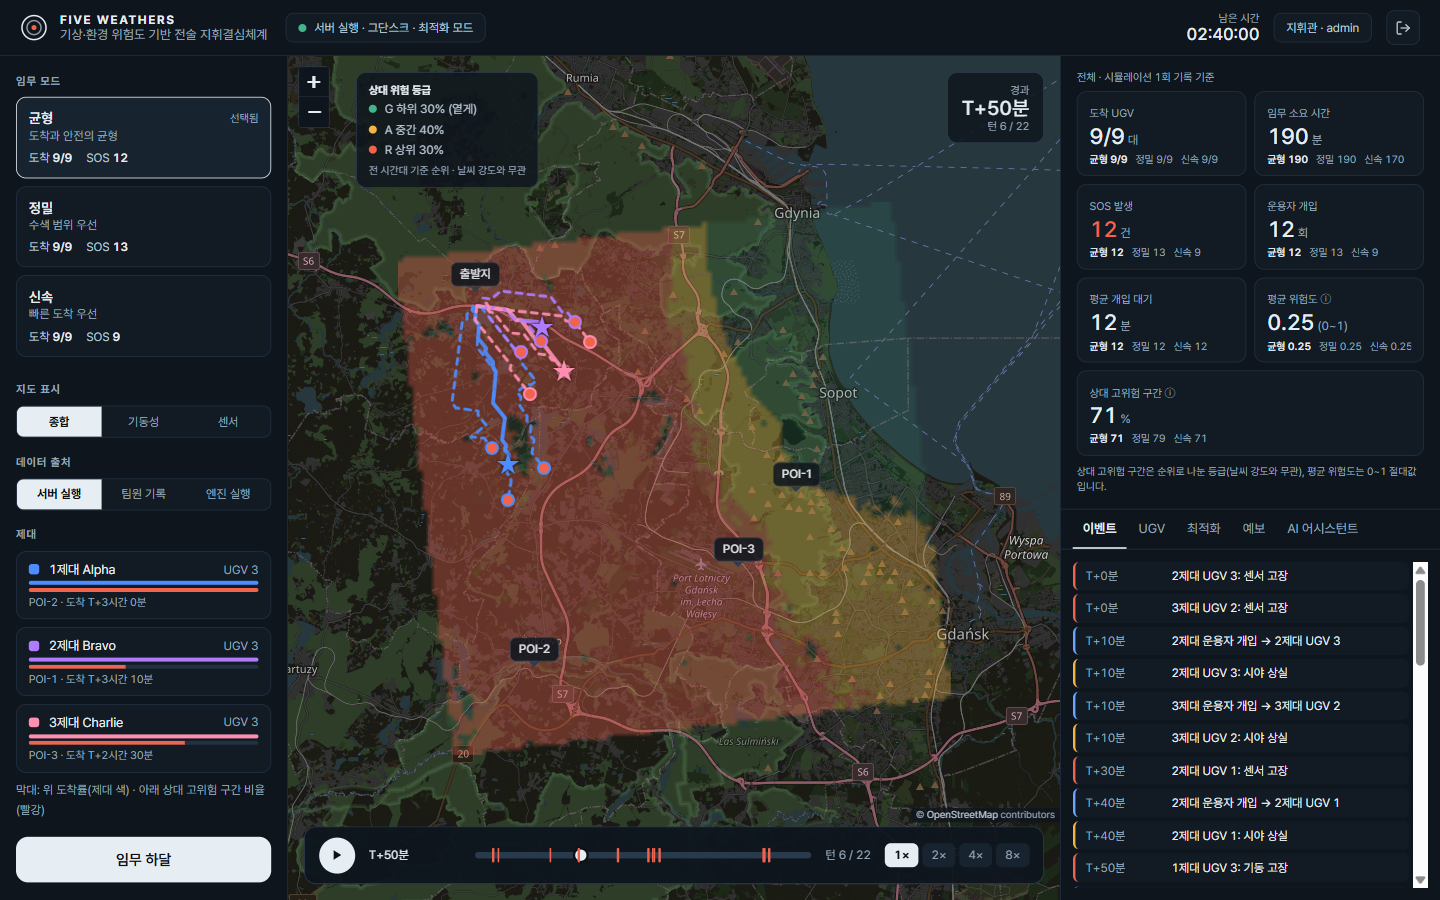
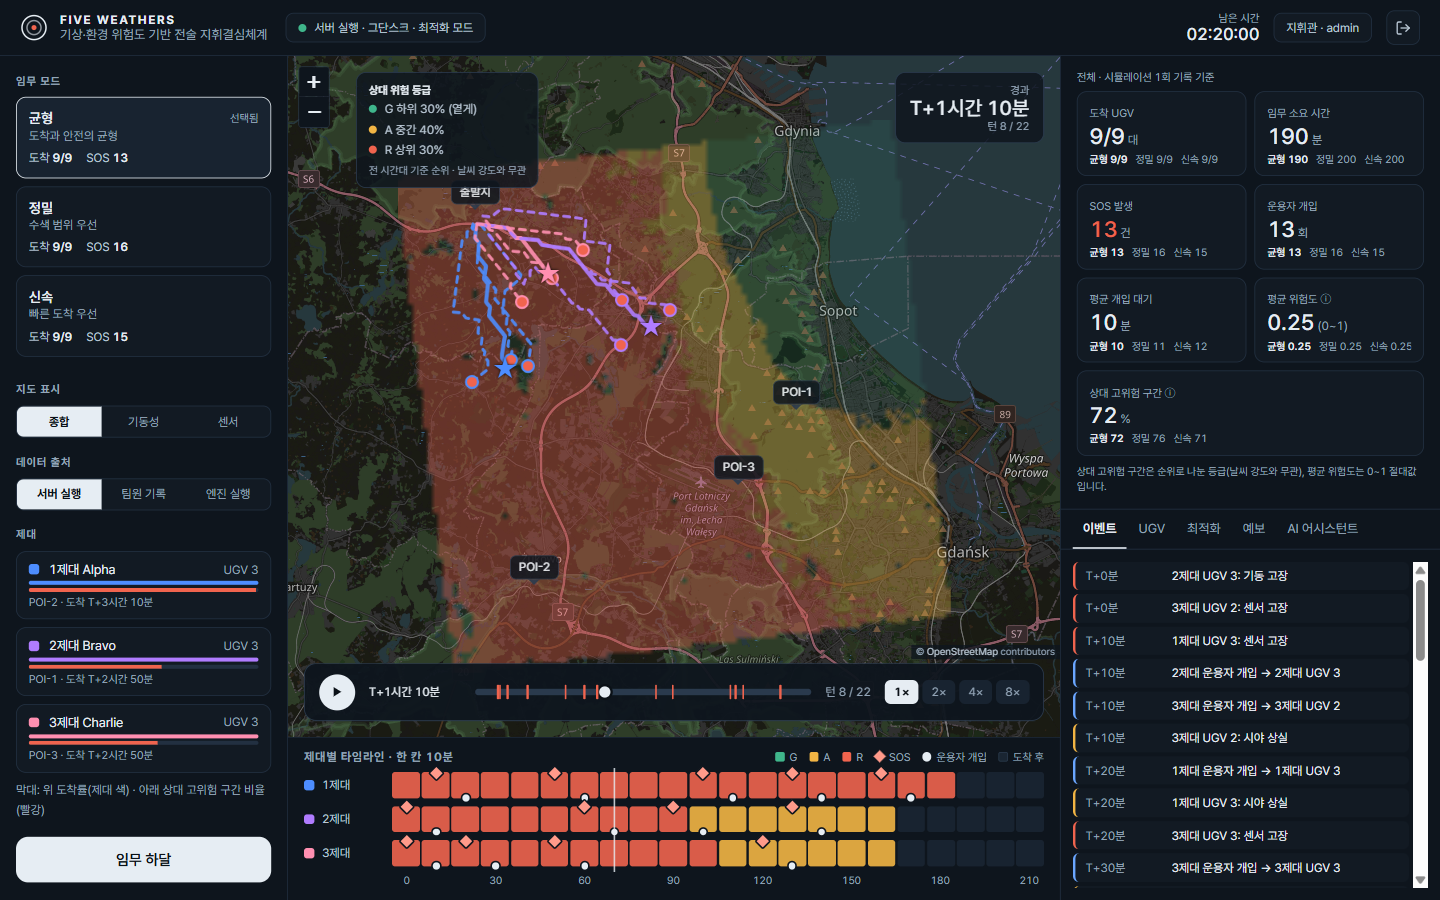
feat: 제대별 타임라인 (위험 등급 칸, SOS·운용자 개입 표시, 클릭으로 시점 이동)

diff --git a/frontend_js/src/replay/TeamTimeline.jsx b/frontend_js/src/replay/TeamTimeline.jsx
@@ -1,0 +1,73 @@
+import { useMemo } from "react";
+import { GRADE_COLOR, TEAM_COLOR, TEAM_UNIT, elapsedLabel, teamTimeline } from "./replayModel";
+
+const TEAM_ORDER = ["Alpha", "Bravo", "Charlie"];
+
+// 제대별 타임라인: 한 칸 = 10분(한 턴). 칸 색 = 그 턴에 UGV 가 있던 곳의 가장 나쁜 위험 등급.
+// 칸을 누르면 그 시점으로 이동한다. SOS(빨간 마름모)·운용자 개입(흰 점)이 시간순으로 보인다.
+export default function TeamTimeline({ replay, allowedTeams }) {
+  const { model, frame, seek, teams, setSelected } = replay;
+  const lanes = useMemo(
+    () => TEAM_ORDER.filter((t) => model.kpi.per_team[t] && (!allowedTeams || allowedTeams.includes(t)) && teams[t])
+      .map((t) => ({ team: t, ...teamTimeline(model, t) })),
+    [model, allowedTeams, teams],
+  );
+  const firstFrame = useMemo(() => {
+    const map = new Map();
+    model.frames.forEach((f, i) => { if (!map.has(f.turn)) map.set(f.turn, i); });
+    return map;
+  }, [model]);
+  const turns = model.kpi.turns;
+  const cur = model.frames[frame].turn;
+  const pct = (turn) => `${((turn + 0.5) / turns) * 100}%`;
+  const ticks = Array.from({ length: Math.ceil(turns / 3) }, (_, i) => i * 3).filter((t) => t < turns);
+
+  return (
+    <section className="timeline" aria-label="제대별 타임라인">
+      <div className="tl-head">
+        <b>제대별 타임라인 · 한 칸 10분</b>
+        <span className="tl-legend">
+          {Object.entries(GRADE_COLOR).map(([g, c]) => <span key={g}><i style={{ background: c }} />{g}</span>)}
+          <span><i className="diamond" />SOS</span>
+          <span><i className="dotw" />운용자 개입</span>
+          <span><i className="done" />도착 후</span>
+        </span>
+      </div>
+      {lanes.length === 0 && <p className="empty">표시할 제대가 없습니다.</p>}
+      <div className="tl-body">
+      {lanes.map((lane) => (
+        <div className="tl-lane" key={lane.team}>
+          <div className="tl-name"><i style={{ background: TEAM_COLOR[lane.team] }} />{TEAM_UNIT[lane.team]}</div>
+          <div className="tl-cells">
+            {lane.cells.map((c) => (
+              <button
+                key={c.turn}
+                className={`tl-cell ${c.done ? "done" : ""}`}
+                style={c.grade && !c.done ? { background: GRADE_COLOR[c.grade] } : undefined}
+                title={`${elapsedLabel(c.turn)} · ${c.done ? "도착 후" : c.grade ? `위험 등급 ${c.grade}` : "기록 없음"}`}
+                aria-label={`${TEAM_UNIT[lane.team]} ${elapsedLabel(c.turn)}`}
+                onClick={() => seek(firstFrame.get(c.turn) ?? 0)}
+              />
+            ))}
+            {lane.events.filter((e) => e.type === "sos").map((e, i) => (
+              <button key={`s${i}`} className="tl-sos" style={{ left: pct(e.turn) }} title={e.text}
+                aria-label={e.text} onClick={() => { seek(e.frame); setSelected(null); }} />
+            ))}
+            {lane.events.filter((e) => e.type === "intervene").map((e, i) => (
+              <button key={`i${i}`} className="tl-iv" style={{ left: pct(e.turn) }} title={e.text}
+                aria-label={e.text} onClick={() => seek(e.frame)} />
+            ))}
+          </div>
+        </div>
+      ))}
+      <div className="tl-lane axis">
+        <div className="tl-name" />
+        <div className="tl-axis">
+          {ticks.map((t) => <span key={t} style={{ left: pct(t) }}>{t * 10}</span>)}
+        </div>
+      </div>
+      <i className="tl-cursor" style={{ left: `calc(88px + (100% - 88px) * ${(cur + 0.5) / turns})` }} />
+      </div>
+    </section>
+  );
+}

diff --git a/frontend_js/src/styles.css b/frontend_js/src/styles.css
@@ -289,3 +289,29 @@ button.team:hover { border-color: var(--line2); }
 
 /* 브라우저 자동완성이 입력칸을 밝은 색으로 칠하지 않게 한다 */
 input:-webkit-autofill { -webkit-box-shadow: 0 0 0 100px var(--surface) inset; -webkit-text-fill-color: var(--text); caret-color: var(--text); }
+
+/* ── 제대별 타임라인 ─────────────────────────────────────────────── */
+.center { min-width: 0; min-height: 0; display: grid; grid-template-rows: minmax(0, 1fr) auto; }
+.timeline { padding: 12px 16px 10px; border-top: 1px solid var(--line); background: var(--panel); }
+.tl-head { display: flex; align-items: center; gap: 16px; margin-bottom: 8px; flex-wrap: wrap; }
+.tl-head b { font-size: 12px; letter-spacing: .06em; color: var(--muted); }
+.tl-legend { margin-left: auto; display: flex; gap: 12px; font-size: 11px; color: var(--muted); }
+.tl-legend span { display: inline-flex; align-items: center; gap: 5px; }
+.tl-legend i { width: 9px; height: 9px; border-radius: 2px; display: inline-block; }
+.tl-legend i.diamond { background: #ff9a8a; transform: rotate(45deg); border-radius: 1px; }
+.tl-legend i.dotw { background: var(--text); border-radius: 50%; }
+.tl-legend i.done { background: #1a2532; border: 1px solid var(--line2); }
+.tl-lane { display: grid; grid-template-columns: 78px minmax(0, 1fr); align-items: center; gap: 10px; margin-bottom: 8px; }
+.tl-name { display: flex; align-items: center; gap: 8px; font-size: 12px; color: var(--soft); }
+.tl-name i { width: 10px; height: 10px; border-radius: 3px; }
+.tl-cells { position: relative; display: grid; grid-auto-flow: column; grid-auto-columns: minmax(0, 1fr); gap: 2px; height: 26px; }
+.tl-cell { padding: 0; border: 0; border-radius: 3px; background: var(--line); opacity: .9; }
+.tl-cell.done { background: #1a2532; }
+.tl-cell:hover { opacity: 1; outline: 1px solid var(--text); }
+.tl-sos { position: absolute; top: -5px; width: 12px; height: 12px; margin-left: -6px; padding: 0; border: 2px solid var(--panel); border-radius: 2px; background: #ff9a8a; transform: rotate(45deg); }
+.tl-iv { position: absolute; bottom: -5px; width: 10px; height: 10px; margin-left: -5px; padding: 0; border: 2px solid var(--panel); border-radius: 50%; background: var(--text); }
+.tl-lane.axis { margin: 4px 0 0; }
+.tl-axis { position: relative; height: 16px; }
+.tl-axis span { position: absolute; top: 0; transform: translateX(-50%); font-size: 10.5px; color: var(--muted); }
+.tl-body { position: relative; }
+.tl-cursor { position: absolute; top: -4px; bottom: 18px; width: 2px; margin-left: -1px; background: var(--text); pointer-events: none; opacity: .8; }

diff --git a/frontend_js/src/App.jsx b/frontend_js/src/App.jsx
@@ -7,6 +7,7 @@ import { useReplay } from "./replay/useReplay";
 import BaseMap from "./replay/BaseMap";
 import ReplayMap from "./replay/ReplayMap";
 import ReplayControls from "./replay/ReplayControls";
+import TeamTimeline from "./replay/TeamTimeline";
 import AssistantPanel from "./replay/AssistantPanel";
 import { AgentTable, EventList, KpiSummary } from "./replay/SidePanels";
 import ParetoPanel from "./replay/ParetoPanel";
@@ -361,18 +362,21 @@ function MainDashboard({ account, onLogout }) {
           {account.role === "commander" && <button className="btn primary block big push" onClick={() => notify("임무를 통제관에게 하달했습니다.")}>임무 하달</button>}
         </aside>
 
-        <section className="stage">
-          {replay.error && <p className="status error">{replay.error}</p>}
-          {replay.loading && <p className="status">재생 데이터를 불러오는 중…</p>}
-          {model && (
-            <>
-              <div className="map-fill replay-map"><ReplayMap replay={replay} allowedTeams={allowedTeams} /></div>
-              <div className="map-legend-pos"><RiskLegend /></div>
-              <div className="turn"><small>경과</small><b className="num">{elapsedLabel(turn)}</b><small className="num">턴 {turn + 1} / {model.kpi.turns}</small></div>
-              <ReplayControls replay={replay} allowedTeams={allowedTeams} />
-            </>
-          )}
-        </section>
+        <div className="center">
+          <section className="stage">
+            {replay.error && <p className="status error">{replay.error}</p>}
+            {replay.loading && <p className="status">재생 데이터를 불러오는 중…</p>}
+            {model && (
+              <>
+                <div className="map-fill replay-map"><ReplayMap replay={replay} allowedTeams={allowedTeams} /></div>
+                <div className="map-legend-pos"><RiskLegend /></div>
+                <div className="turn"><small>경과</small><b className="num">{elapsedLabel(turn)}</b><small className="num">턴 {turn + 1} / {model.kpi.turns}</small></div>
+                <ReplayControls replay={replay} allowedTeams={allowedTeams} />
+              </>
+            )}
+          </section>
+          {model && <TeamTimeline replay={replay} allowedTeams={allowedTeams} />}
+        </div>
 
         <aside className="right">
           {model ? <KpiSummary replay={replay} team={myTeam} /> : <section className="kpis"><p className="kpis-basis">임무 요약</p></section>}

diff --git a/frontend_js/src/replay/replayModel.js b/frontend_js/src/replay/replayModel.js
@@ -167,3 +167,27 @@ export function teamRedRatio(model) {
   }
   return out;
 }
+
+// ── 제대별 타임라인 ──────────────────────────────────────────────────────
+const GRADE_RANK = { G: 1, A: 2, R: 3 };
+
+// 한 제대의 턴별 칸: 그 턴에 UGV 가 있던 칸 중 가장 나쁜 등급. 기록이 없으면 null, 제대가 도착한 뒤면 done.
+// 이벤트: SOS / 운용자 개입 / 도착 (턴 번호 포함). 지도 재생과 같은 model 에서 만든다.
+export function teamTimeline(model, team) {
+  const turns = model.kpi.turns;
+  const pt = model.kpi.per_team[team];
+  const lastActive = pt?.arrive_turn == null ? turns - 1 : pt.arrive_turn;
+  const worst = new Array(turns).fill(null);
+  model.tracks.forEach((track, i) => {
+    const a = model.agents[i];
+    if (a.kind !== "UGV" || a.team !== team) return;
+    for (const s of track) {
+      if (s.turn >= turns) continue;
+      if (!worst[s.turn] || GRADE_RANK[s.grade] > GRADE_RANK[worst[s.turn]]) worst[s.turn] = s.grade;
+    }
+  });
+  const cells = worst.map((grade, turn) => ({ turn, grade, done: turn > lastActive }));
+  const events = model.events.filter((e) => e.team === team && e.turn < turns)
+    .map((e) => ({ type: e.type, turn: e.turn, frame: e.frame, text: e.text }));
+  return { cells, events, turns };
+}

diff --git a/README.md b/README.md
@@ -1,4 +1,4 @@
-# Five Weathers
+# Five Weathers
 
 > 기상·지형 위험이 시간에 따라 변하는 환경에서 **정찰 UGV(무인지상차량) 편성과 경로를 추천**하고, 지휘관과 제대 통제관이 시뮬레이션 결과를 **로그 기반 재생 화면과 AI 어시스턴트**로 확인하는 전술 의사결정 지원 프로토타입입니다.
 
@@ -33,7 +33,7 @@
 | ![로그인](docs/img/login.png) | ![목표 입력](docs/img/input.png) |
 
 - **목표 입력**: 지도에서 정찰 목표 3곳의 좌표와 정찰 시간을 입력하고 "시뮬레이션 실행"을 누르면, 서버가 균형·정밀·신속 3개 모드를 같은 조건으로 실행합니다(약 40초).
-- **대시보드**: 모드, 지도 표시(종합·기동성·센서 위험도), 제대 필터, 재생 시간, 이벤트 선택이 모두 지도 밖 패널에서 조작됩니다. 지도는 HTML 파일이 아니라 **이동 기록 로그를 읽어 그립니다.**
+- **제대별 타임라인**: 지도 아래에서 제대마다 10분 칸을 위험 등급 색으로 칠하고, SOS(마름모)와 운용자 개입(점)을 시간순으로 보여줍니다. 칸을 누르면 그 시점으로 이동합니다.`n- **대시보드**: 모드, 지도 표시(종합·기동성·센서 위험도), 제대 필터, 재생 시간, 이벤트 선택이 모두 지도 밖 패널에서 조작됩니다. 지도는 HTML 파일이 아니라 **이동 기록 로그를 읽어 그립니다.**
 - **어두운 바탕 지도**는 인터넷이 필요하며, 끊기면 바탕 지도를 빼고 위험도·경로만 보여줍니다.
 - **위험 등급(G/A/R)은 전 시간대 기준의 상대 순위**(하위 30% / 중간 40% / 상위 30%)입니다. 날씨 강도를 바꿔도 색 비율이 같으므로, 절대값은 "평균 위험도" KPI로 함께 보여줍니다.
 
